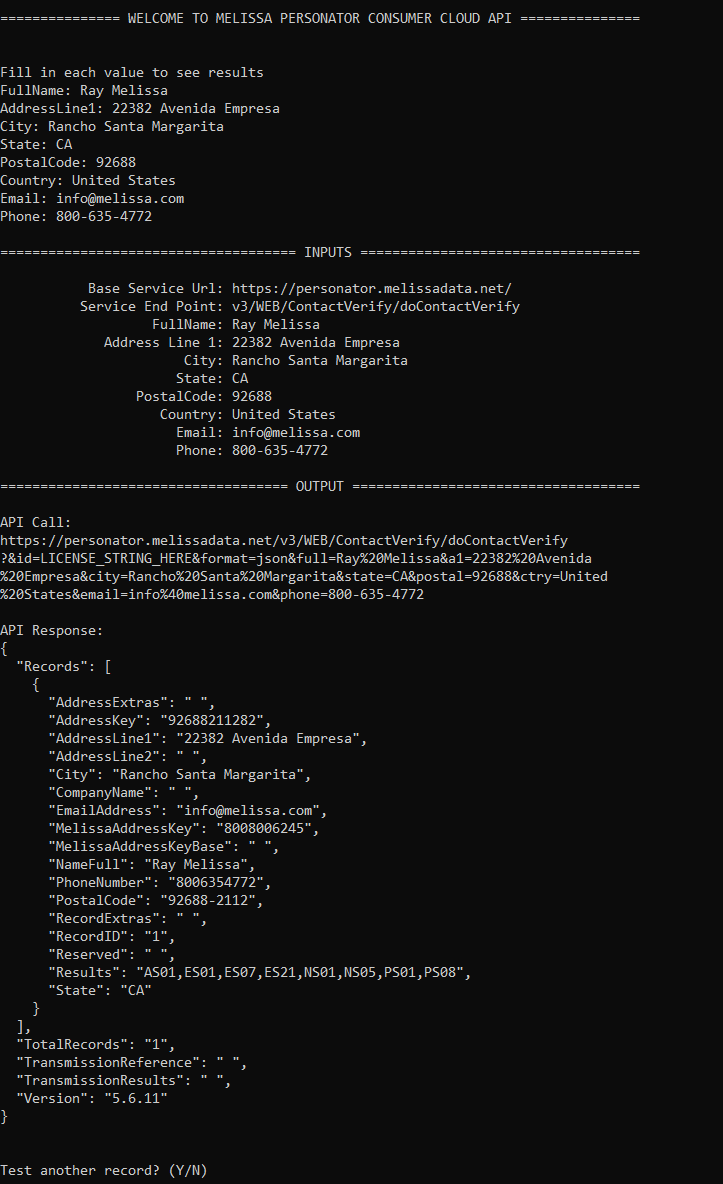
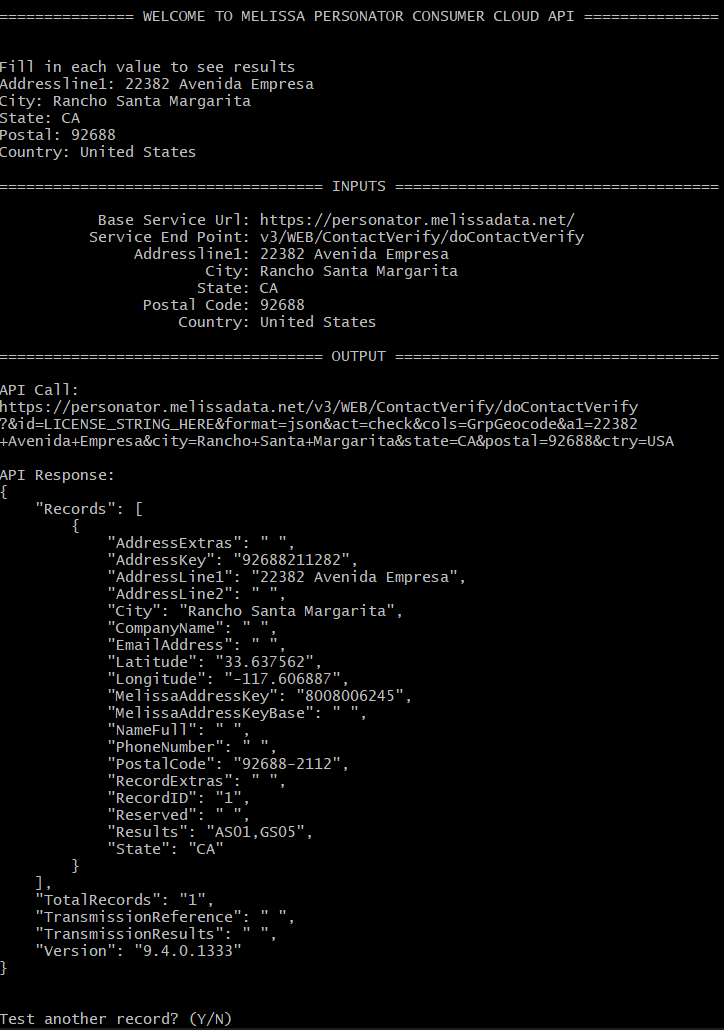
Update program default endpoint parameter

Changed region(s): [[0.0, 0.0, 0.9433, 0.932], [0.0, 0.9631, 0.3347, 0.9942]]

diff --git a/PersonatorConsumerPython3.py b/PersonatorConsumerPython3.py
@@ -6,37 +6,31 @@ import urllib.parse
 
 def main():
   base_service_url = "https://personator.melissadata.net/"
-  service_endpoint = "v3/WEB/ContactVerify/doContactVerify"; #please see https://www.melissa.com/developer/personator for more endpoints
+  service_endpoint = "v3/WEB/ContactVerify/doContactVerify"
 
   # Create an ArgumentParser object
   parser = argparse.ArgumentParser(description='Personator Consumer command line arguments parser')
 
   # Define the command line arguments
   parser.add_argument('--license', '-l', type=str, help='License key')
-  parser.add_argument('--fullname', type=str, help='Full Name')
   parser.add_argument('--addressline1', type=str, help='Address Line 1')
   parser.add_argument('--city', type=str, help='City')
   parser.add_argument('--state', type=str, help='State')
   parser.add_argument('--postal', type=str, help='Postal Code')
   parser.add_argument('--country', type=str, help='Country')
-  parser.add_argument('--email', type=str, help='Email')
-  parser.add_argument('--phone', type=str, help='Phone Number')
 
   # Parse the command line arguments
   args = parser.parse_args()
 
   # Access the values of the command line arguments
   license = args.license
-  fullname = args.fullname
   addressline1 = args.addressline1
   city = args.city
   state = args.state
   postal = args.postal
   country = args.country
-  email = args.email
-  phone = args.phone
 
-  call_api(base_service_url, service_endpoint, license, fullname, addressline1, city, state, postal, country, email, phone)
+  call_api(base_service_url, service_endpoint, license, addressline1, city, state, postal, country)
 
 def get_contents(base_service_url, request_query):
     url = urllib.parse.urljoin(base_service_url, request_query)
@@ -55,43 +49,33 @@ def get_contents(base_service_url, request_query):
     print("\nAPI Response:")
     print(pretty_response)
 
-def call_api(base_service_url, service_endpoint, license, fullname, addressline1, city, state, postal, country, email, phone):
+def call_api(base_service_url, service_endpoint, license, addressline1, city, state, postal, country):
     print("\n=============== WELCOME TO MELISSA PERSONATOR CONSUMER CLOUD API ===============\n")
 
     should_continue_running = True
     while should_continue_running:
-        input_fullname = ""
         input_addressline1 = ""
         input_city = ""
         input_state = ""
         input_postal = ""
         input_country = ""
-        input_email = ""
-        input_phone = ""
-        if not fullname and not addressline1 and not city and not state and not postal and not country and not email and not phone:
+        if not addressline1 and not city and not state and not postal and not country:
             print("\nFill in each value to see results")
-            input_fullname = input("Full Name: ")
             input_addressline1 = input("Addressline1: ")
             input_city = input("City: ")
             input_state = input("State: ")
             input_postal = input("Postal: ")
             input_country = input("Country: ")
-            input_email = input("Email: ")
-            input_phone = input("Phone: ")
+
         else:
-            input_fullname = fullname
             input_addressline1 = addressline1
             input_city = city
             input_state = state
             input_postal = postal
             input_country = country
-            input_email = email
-            input_phone = phone
 
-        while not input_fullname or not input_addressline1 or not input_city or not input_state or not input_postal or not input_country or not input_email or not input_phone:
+        while not input_addressline1 or not input_city or not input_state or not input_postal or not input_country:
             print("\nFill in each value to see results")
-            if not input_fullname:
-                input_fullname = input("\nFull Name: ")
             if not input_addressline1:
                 input_addressline1 = input("\nAddressline1: ")
             if not input_city:
@@ -102,35 +86,26 @@ def call_api(base_service_url, service_endpoint, license, fullname, addressline1
                 input_postal = input("\nPostal: ")
             if not input_country:
                 input_country = input("\nCountry: ")
-            if not input_email:
-                input_email = input("\nEmail: ")
-            if not input_phone:
-                input_phone = input("\nPhone: ")
 
         inputs = {
             "format": "json",
-            "full": input_fullname,
+            "act": "check",
+            "cols": "GrpGeocode",
             "a1": input_addressline1,
             "city": input_city,
             "state": input_state,
             "postal": input_postal,
             "ctry": input_country,
-            "email": input_email,
-            "phone": input_phone
         }
 
-        print("\n==================================== INPUTS ===================================\n")
+        print("\n==================================== INPUTS ====================================\n")
         print(f"\t   Base Service Url: {base_service_url}")
         print(f"\t  Service End Point: {service_endpoint}")
-        print(f"\t          Full Name: {input_fullname}")
         print(f"\t       Addressline1: {input_addressline1}")
         print(f"\t               City: {input_city}")
         print(f"\t              State: {input_state}")
         print(f"\t        Postal Code: {input_postal}")
         print(f"\t            Country: {input_country}")
-        print(f"\t              Email: {input_email}")
-        print(f"\t              Phone: {input_phone}")
-
 
        # Create Service Call
         # Set the License String in the Request
@@ -157,10 +132,10 @@ def call_api(base_service_url, service_endpoint, license, fullname, addressline1
                 print(ex)
                 return
 
-        is_valid = False;
+        is_valid = False
 
-        if (fullname is not None) and (addressline1 is not None) and (city is not None) and (state is not None) and (postal is not None) and (country is not None) and (email is not None) and (phone is not None):
-            concat = fullname + addressline1 + city + state + postal + country + email + phone
+        if (addressline1 is not None) and (city is not None) and (state is not None) and (postal is not None) and (country is not None):
+            concat = addressline1 + city + state + postal + country
         else:
             concat = None
 

diff --git a/README.md b/README.md
@@ -7,18 +7,15 @@ Please feel free to copy or embed this code to your own project. Happy coding!
 
 For the latest Melissa Personator Consumer release notes, please visit: https://releasenotes.melissa.com/cloud-api/personator-consumer/
 
-For further documentation, please visit: https://www.melissa.com/quickstart-guides/personator-consumer
+For further documentation, please visit: https://docs.melissa.com/cloud-api/personator-consumer/personator-consumer-index.html
 
 The console will ask the user for:
 
-- FullName
 - AddressLine1
 - City
 - State
 - Postal
 - Country
-- Email 
-- Phone
 
 And return information of the person such as:
 
@@ -29,6 +26,8 @@ And return information of the person such as:
 - City
 - CompanyName
 - EmailAddress
+- Latitude
+- Longitude
 - MelissaAddressKey (MAK)
 - MelissaAddressKeyBase
 - NameFull
@@ -78,14 +77,11 @@ If you are unsure, you can check by opening a command prompt window and typing t
 
 #### Run Powershell Script
 Parameters:
-- -fullname: an input full name
 - -addressline1: an input address line 1
 - -city: an input city
 - -state: an input state
 - -postal: an input postal code
 - -country: an input country
-- -email: an input email
-- -phone: an input phone number
  	
   This is convenient when you want to get results for a specific person in one run instead of testing multiple records in interactive mode.  
 
@@ -102,10 +98,10 @@ There are two modes:
 
 - Command Line 
 
-	You can pass a full name, address line 1, city, state, postal code, country, email, phone, and a license string into `-fullname`, `-addressline1`, `-city`, `-state`, `-postal`, `-country`, `-email`, `-phone`, and `-license` parameters respectively to test the Cloud API. For example: 
+	You can pass address line 1, city, state, postal code, country, and a license string into `-addressline1`, `-city`, `-state`, `-postal`, `-country`, and `-license` parameters respectively to test the Cloud API. For example: 
 	```
-    .\PersonatorConsumerPython3.ps1 -fullname "Ray Melissa" -addressline1 "22382 Avenida Empresa" -city "Rancho Santa Margarita" -state "CA" -postal "92688" -country "United States" -email "info@melissa.com" -phone "800-635-4772"
-    .\PersonatorConsumerPython3.ps1 -fullname "Ray Melissa" -addressline1 "22382 Avenida Empresa" -city "Rancho Santa Margarita" -state "CA" -postal "92688" -country "United States" -email "info@melissa.com" -phone "800-635-4772" -license "<your_license_string>"
+    .\PersonatorConsumerPython3.ps1 -addressline1 "22382 Avenida Empresa" -city "Rancho Santa Margarita" -state "CA" -postal "92688" -country "United States" 
+    .\PersonatorConsumerPython3.ps1 -addressline1 "22382 Avenida Empresa" -city "Rancho Santa Margarita" -state "CA" -postal "92688" -country "United States" -license "<your_license_string>"
     ```
 	
 This is the expected output from a successful setup for interactive mode:
@@ -144,14 +140,11 @@ Once all of this is done, you should be able to verify that the Python3 is insta
 
 #### Run Bash Script
 Parameters:
-- --fullname: an input full name
 - --addressline1: an input address line 1
 - --city: an input city
 - --state: an input state
 - --postal: an input postal code
 - --country: an input country
-- --email: an input email
-- --phone: an input phone number
 
   This is convenient when you want to get results for a specific request in one run instead of testing multiple records in interactive mode.  
 
@@ -168,10 +161,10 @@ There are two modes:
 
 - Command Line 
 
-	You can pass a full name, address line 1, city, state, postal code, country, email, phone, and license string into `--fullname`, `--addressline1`, `--city`, `--state`, `--postal`, `--country`, `--email`, `--phone`, and `--license` parameters respectively to test the Cloud API. For example: 
+	You can pass address line 1, city, state, postal code, country, and license string into `--addressline1`, `--city`, `--state`, `--postal`, `--country`, and `--license` parameters respectively to test the Cloud API. For example: 
 	```
-    ./PersonatorConsumerPython3.sh --fullname "Ray Melissa" --addressline1 "22382 Avenida Empresa" --city "Rancho Santa Margarita" --state "CA" --postal "92688" --country "United States" --email "info@melissa.com" --phone "800-635-4772"
-    ./PersonatorConsumerPython3.sh --fullname "Ray Melissa" --addressline1 "22382 Avenida Empresa" --city "Rancho Santa Margarita" --state "CA" --postal "92688" --country "United States" --email "info@melissa.com" --phone "800-635-4772" --license "<your_license_string>"
+    ./PersonatorConsumerPython3.sh --addressline1 "22382 Avenida Empresa" --city "Rancho Santa Margarita" --state "CA" --postal "92688" --country "United States"
+    ./PersonatorConsumerPython3.sh --addressline1 "22382 Avenida Empresa" --city "Rancho Santa Margarita" --state "CA" --postal "92688" --country "United States" --license "<your_license_string>"
     ```
 
 This is the expected output from a successful setup for interactive mode:
